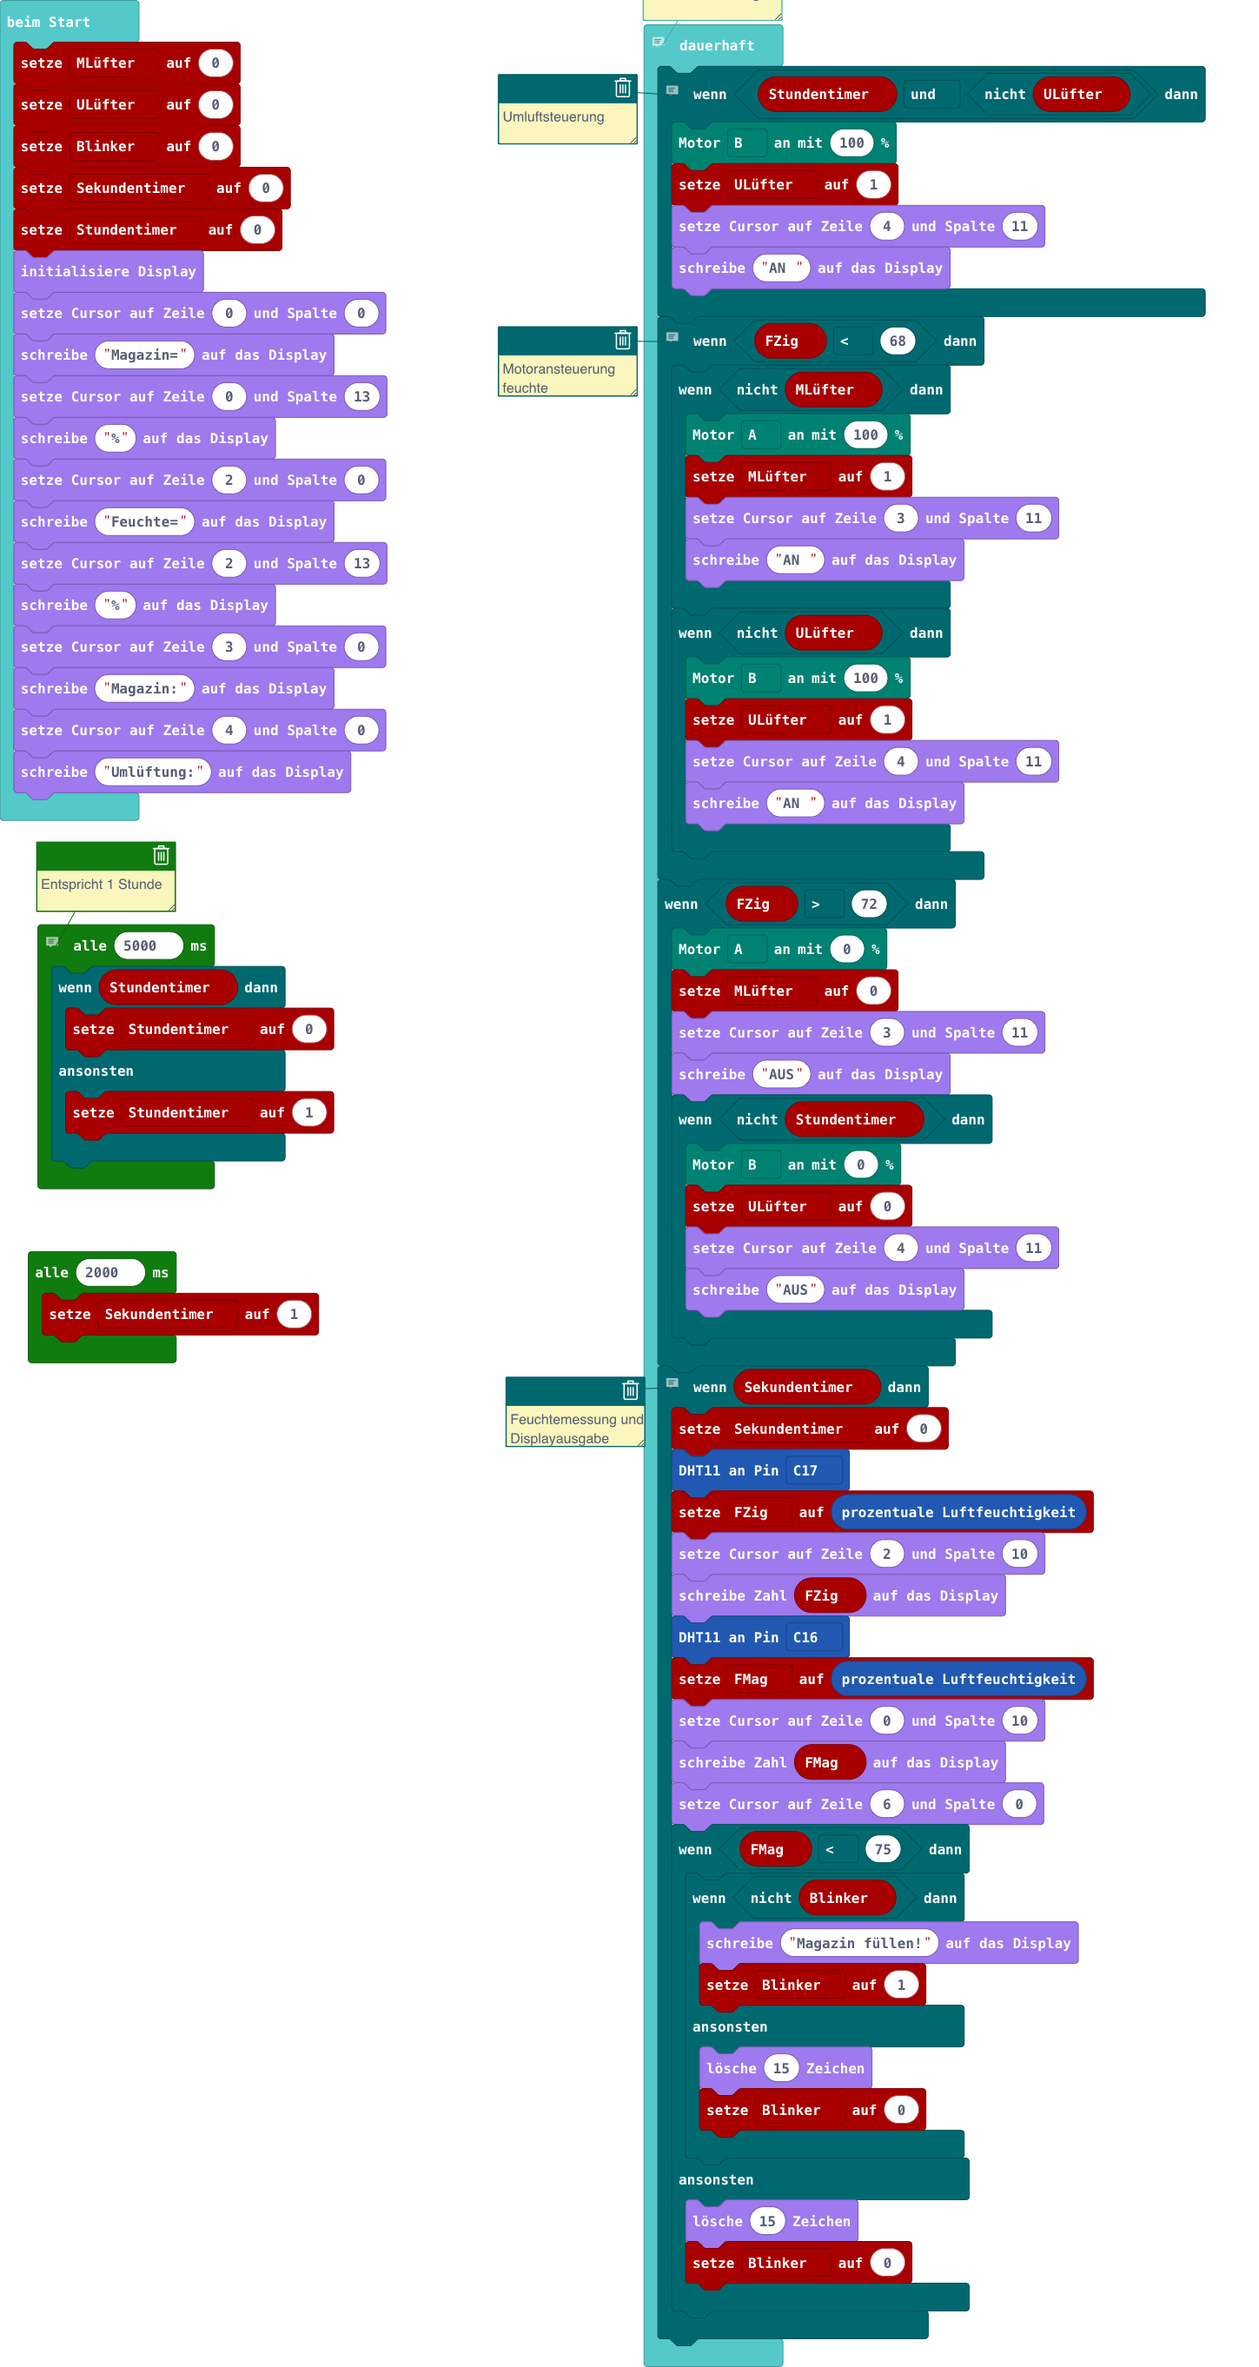
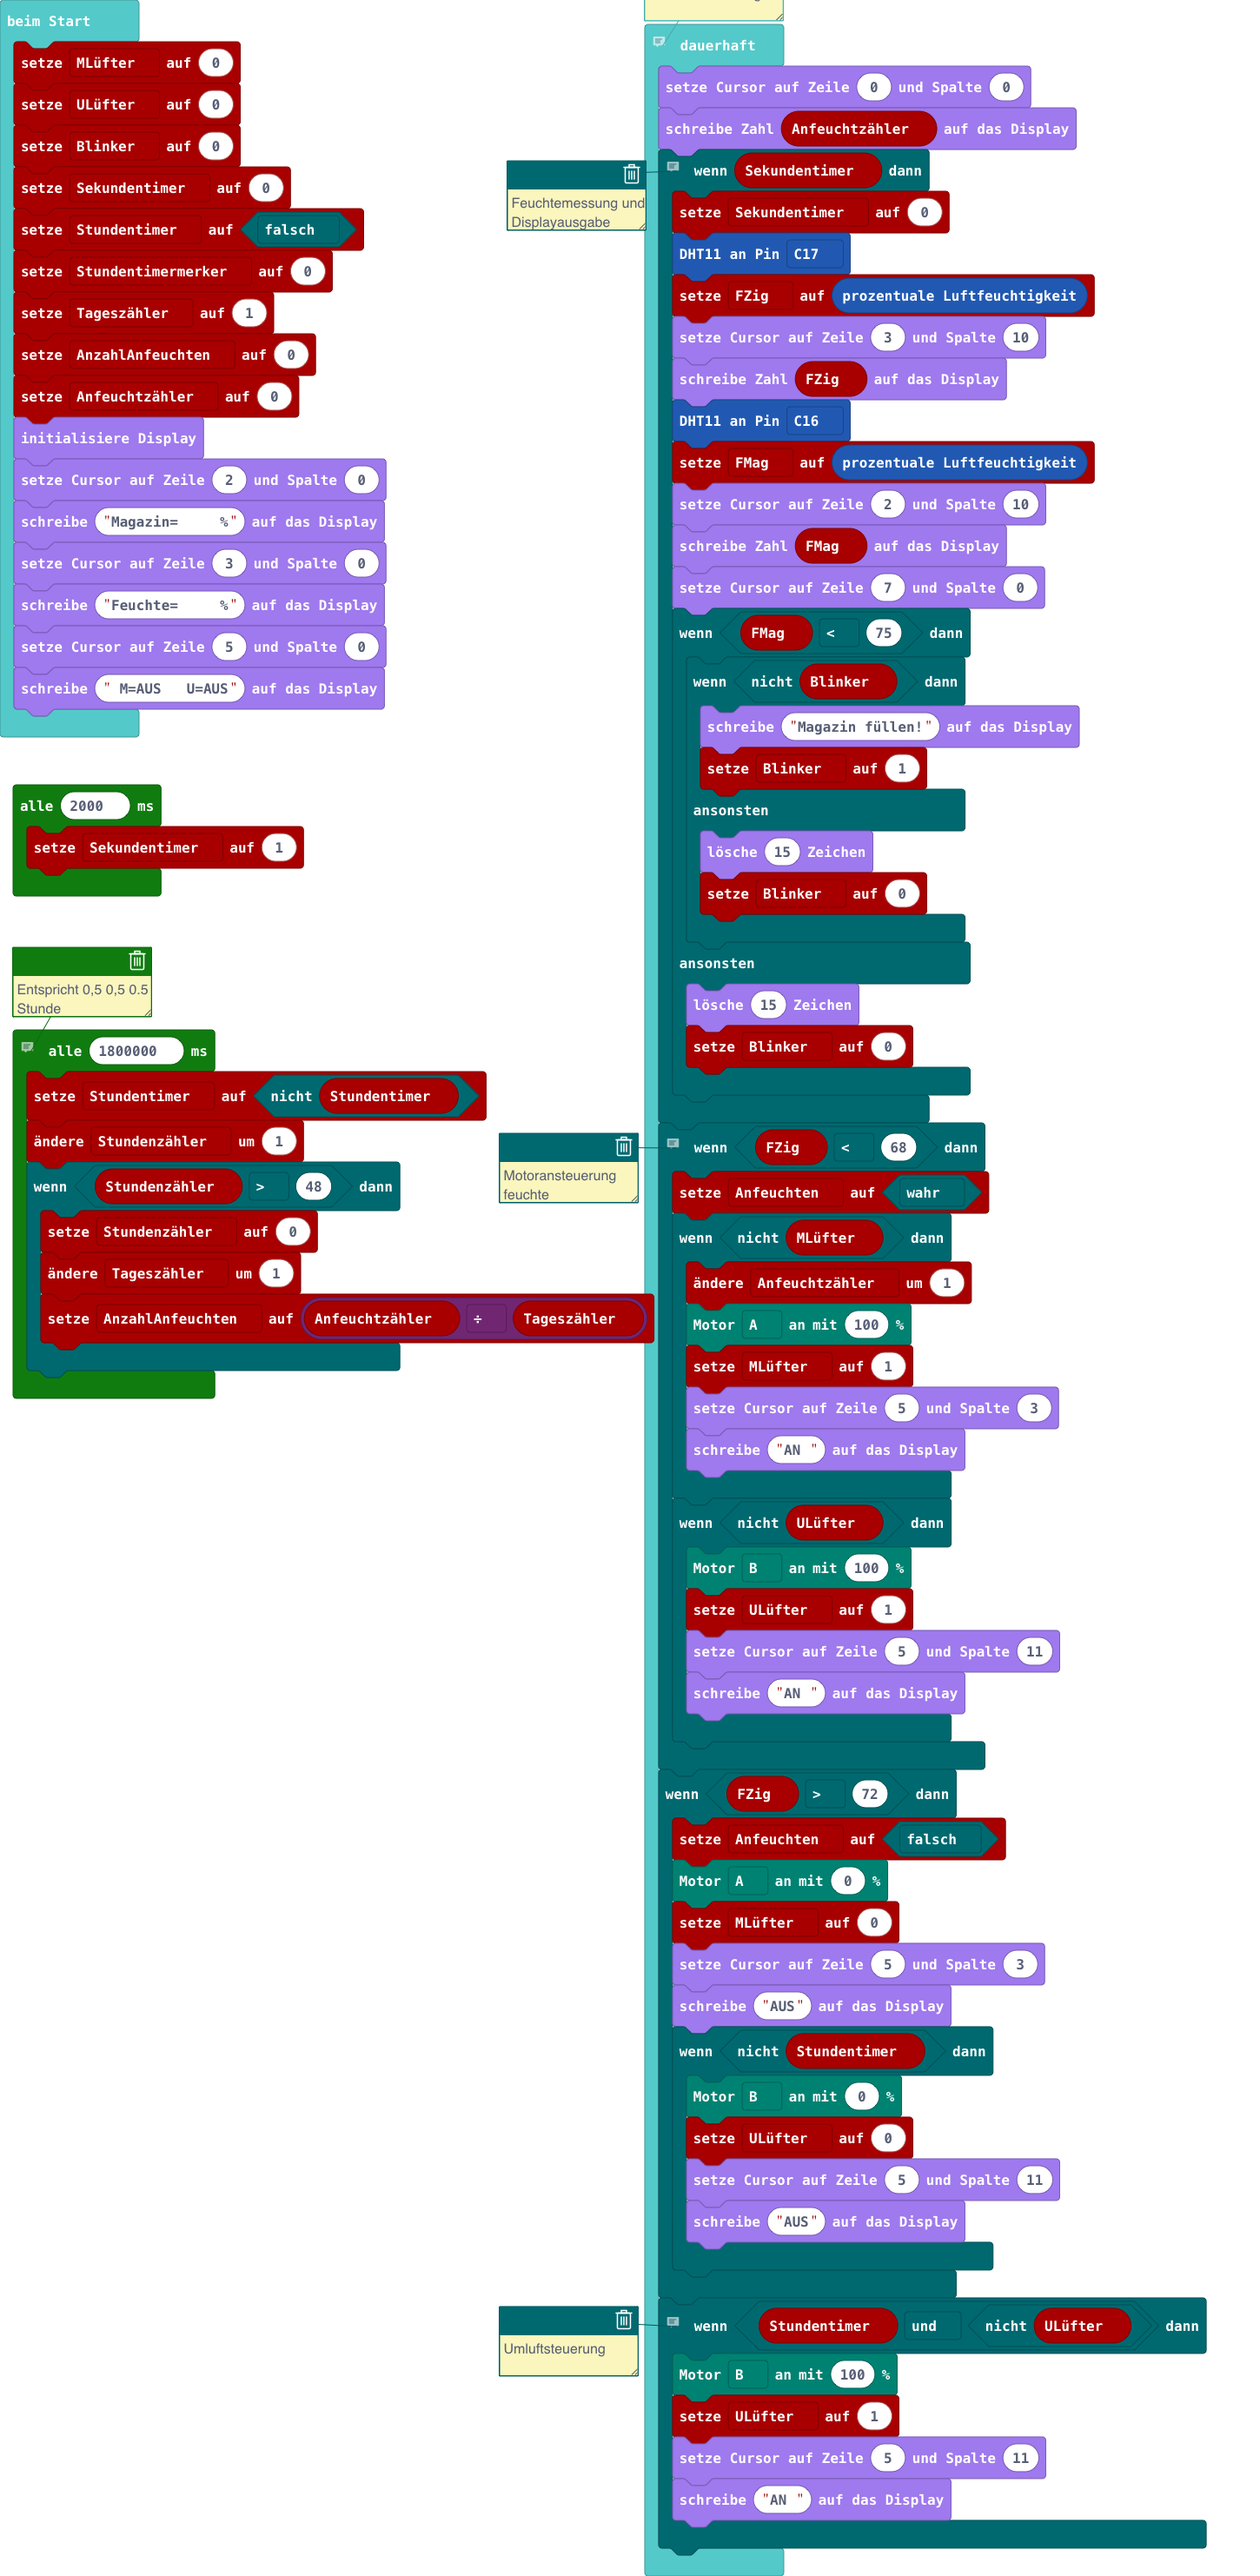
Aktualisiere pxt.json, main.blocks, main.ts

diff --git a/main.ts b/main.ts
@@ -1,74 +1,53 @@
+let Anfeuchten = false
 let FMag = 0
 let FZig = 0
+let Stundenzähler = 0
 let MLüfter = 0
 let ULüfter = 0
 let Blinker = 0
 let Sekundentimer = 0
-let Stundentimer = 0
+let Stundentimer = false
+let Stundentimermerker = 0
+let Tageszähler = 1
+let AnzahlAnfeuchten = 0
+let Anfeuchtzähler = 0
 oledssd1306.initDisplay()
-oledssd1306.setTextXY(0, 0)
-oledssd1306.writeString("Magazin=")
-oledssd1306.setTextXY(0, 13)
-oledssd1306.writeString("%")
 oledssd1306.setTextXY(2, 0)
-oledssd1306.writeString("Feuchte=")
-oledssd1306.setTextXY(2, 13)
-oledssd1306.writeString("%")
+oledssd1306.writeString("Magazin=     %")
 oledssd1306.setTextXY(3, 0)
-oledssd1306.writeString("Magazin:")
-oledssd1306.setTextXY(4, 0)
-oledssd1306.writeString("Umlüftung:")
+oledssd1306.writeString("Feuchte=     %")
+oledssd1306.setTextXY(5, 0)
+oledssd1306.writeString(" M=AUS   U=AUS")
+// Entspricht 0,5 0,5 0.5 Stunde
+// 
+loops.everyInterval(1800000, function () {
+    Stundentimer = !(Stundentimer)
+    Stundenzähler += 1
+    if (Stundenzähler > 48) {
+        Stundenzähler = 0
+        Tageszähler += 1
+        AnzahlAnfeuchten = Anfeuchtzähler / Tageszähler
+    }
+})
 loops.everyInterval(2000, function () {
     Sekundentimer = 1
 })
 // Motoransteuerung
 basic.forever(function () {
-    // Umluftsteuerung
-    if (Stundentimer && !(ULüfter)) {
-        motors.dualMotorPower(Motor.B, 100)
-        ULüfter = 1
-        oledssd1306.setTextXY(4, 11)
-        oledssd1306.writeString("AN ")
-    }
-    // Motoransteuerung feuchte
-    if (FZig < 68) {
-        if (!(MLüfter)) {
-            motors.dualMotorPower(Motor.A, 100)
-            MLüfter = 1
-            oledssd1306.setTextXY(3, 11)
-            oledssd1306.writeString("AN ")
-        }
-        if (!(ULüfter)) {
-            motors.dualMotorPower(Motor.B, 100)
-            ULüfter = 1
-            oledssd1306.setTextXY(4, 11)
-            oledssd1306.writeString("AN ")
-        }
-    }
-    if (FZig > 72) {
-        motors.dualMotorPower(Motor.A, 0)
-        MLüfter = 0
-        oledssd1306.setTextXY(3, 11)
-        oledssd1306.writeString("AUS")
-        if (!(Stundentimer)) {
-            motors.dualMotorPower(Motor.B, 0)
-            ULüfter = 0
-            oledssd1306.setTextXY(4, 11)
-            oledssd1306.writeString("AUS")
-        }
-    }
+    oledssd1306.setTextXY(0, 0)
+    oledssd1306.writeNumber(Anfeuchtzähler)
     // Feuchtemessung und Displayausgabe
     if (Sekundentimer) {
         Sekundentimer = 0
         DHT11.setPin(DigitalPin.C17)
         FZig = DHT11.humidity()
-        oledssd1306.setTextXY(2, 10)
+        oledssd1306.setTextXY(3, 10)
         oledssd1306.writeNumber(FZig)
         DHT11.setPin(DigitalPin.C16)
         FMag = DHT11.humidity()
-        oledssd1306.setTextXY(0, 10)
+        oledssd1306.setTextXY(2, 10)
         oledssd1306.writeNumber(FMag)
-        oledssd1306.setTextXY(6, 0)
+        oledssd1306.setTextXY(7, 0)
         if (FMag < 75) {
             if (!(Blinker)) {
                 oledssd1306.writeString("Magazin füllen!")
@@ -82,13 +61,41 @@ basic.forever(function () {
             Blinker = 0
         }
     }
-})
-// Entspricht 1 Stunde
-// 
-loops.everyInterval(5000, function () {
-    if (Stundentimer) {
-        Stundentimer = 0
-    } else {
-        Stundentimer = 1
+    // Motoransteuerung feuchte
+    if (FZig < 68) {
+        Anfeuchten = true
+        if (!(MLüfter)) {
+            Anfeuchtzähler += 1
+            motors.dualMotorPower(Motor.A, 100)
+            MLüfter = 1
+            oledssd1306.setTextXY(5, 3)
+            oledssd1306.writeString("AN ")
+        }
+        if (!(ULüfter)) {
+            motors.dualMotorPower(Motor.B, 100)
+            ULüfter = 1
+            oledssd1306.setTextXY(5, 11)
+            oledssd1306.writeString("AN ")
+        }
+    }
+    if (FZig > 72) {
+        Anfeuchten = false
+        motors.dualMotorPower(Motor.A, 0)
+        MLüfter = 0
+        oledssd1306.setTextXY(5, 3)
+        oledssd1306.writeString("AUS")
+        if (!(Stundentimer)) {
+            motors.dualMotorPower(Motor.B, 0)
+            ULüfter = 0
+            oledssd1306.setTextXY(5, 11)
+            oledssd1306.writeString("AUS")
+        }
+    }
+    // Umluftsteuerung
+    if (Stundentimer && !(ULüfter)) {
+        motors.dualMotorPower(Motor.B, 100)
+        ULüfter = 1
+        oledssd1306.setTextXY(5, 11)
+        oledssd1306.writeString("AN ")
     }
 })
